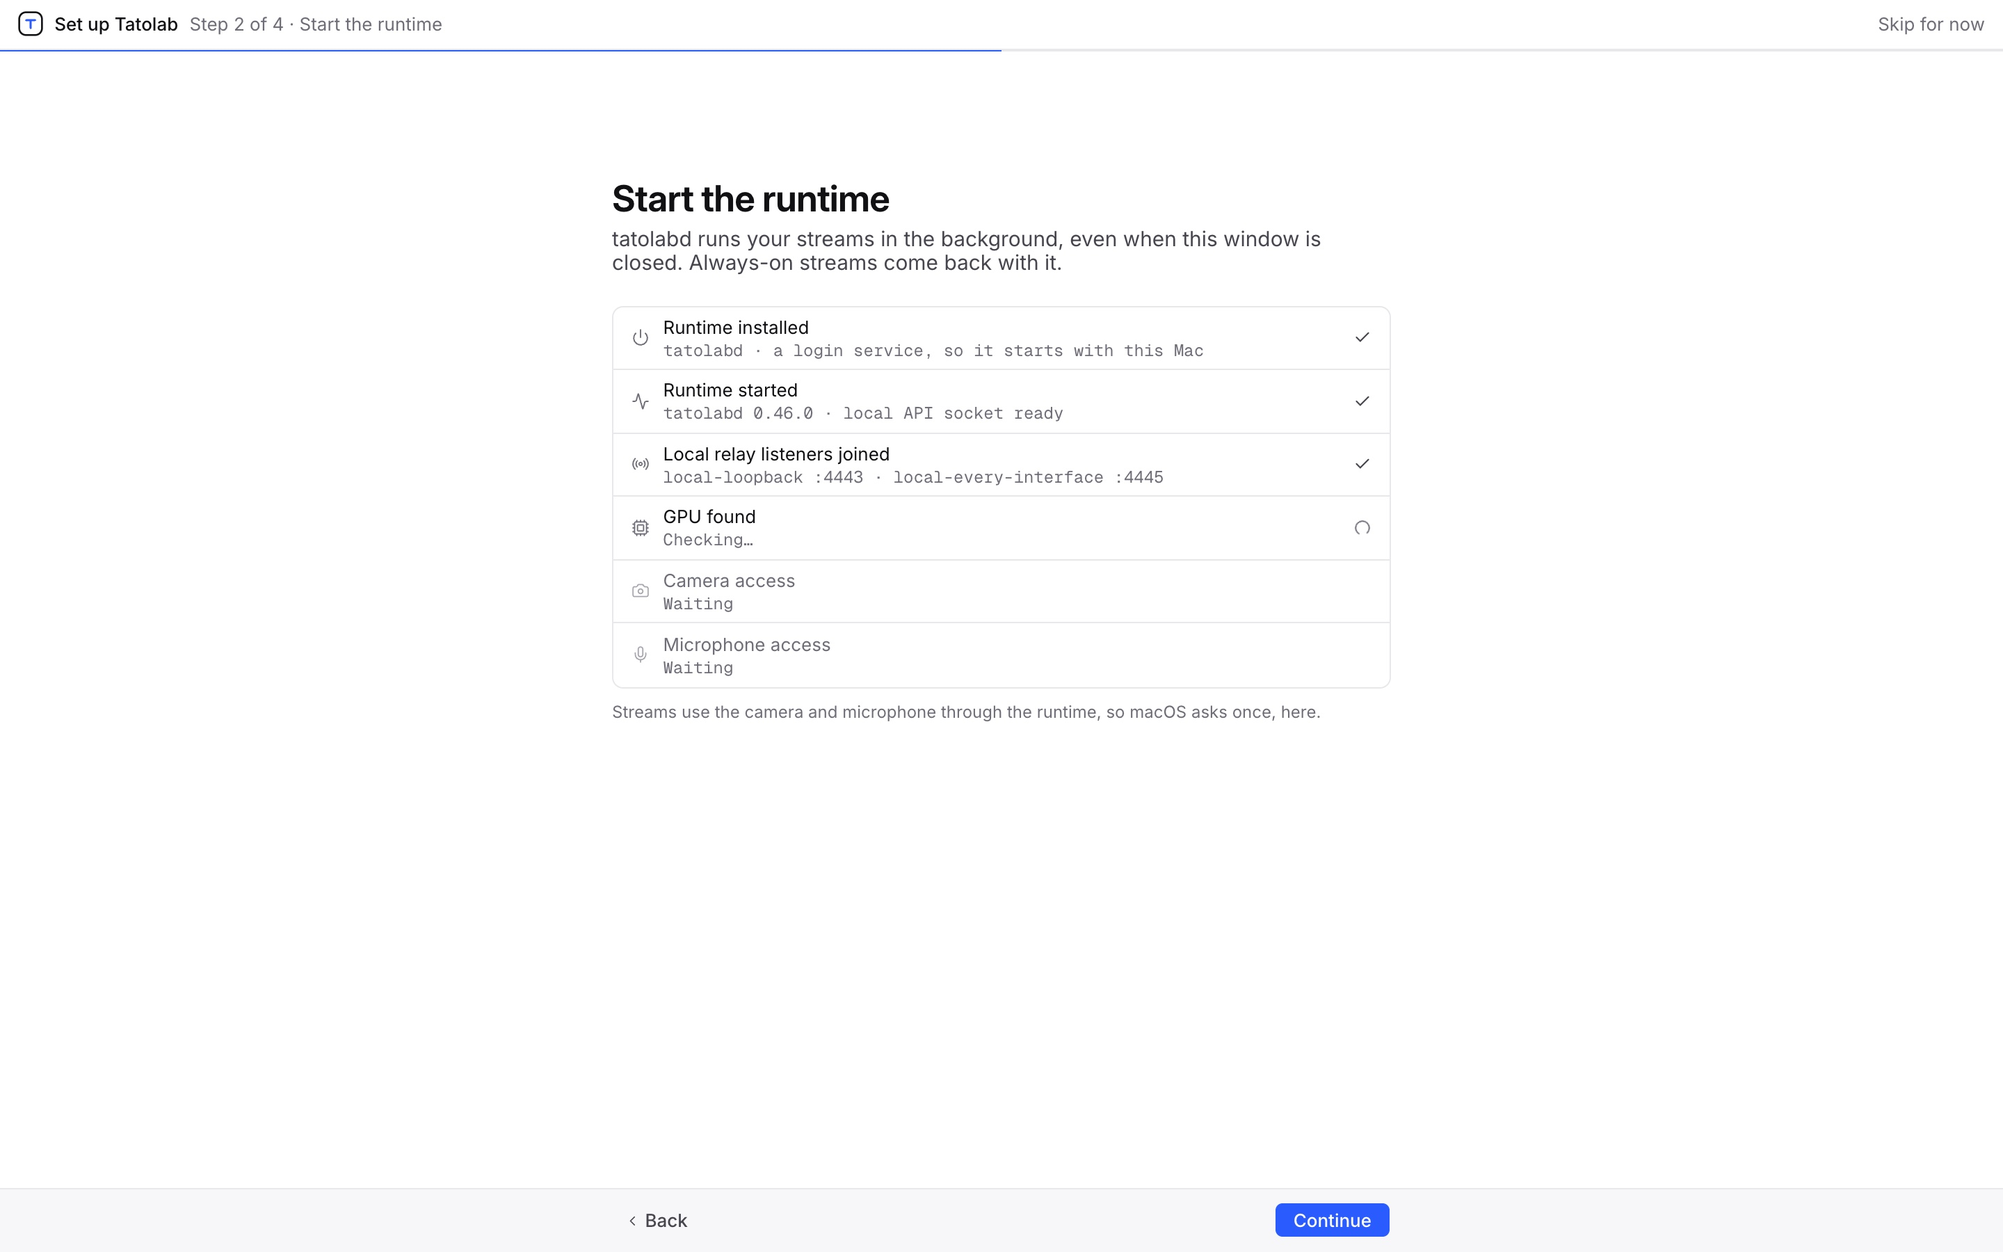
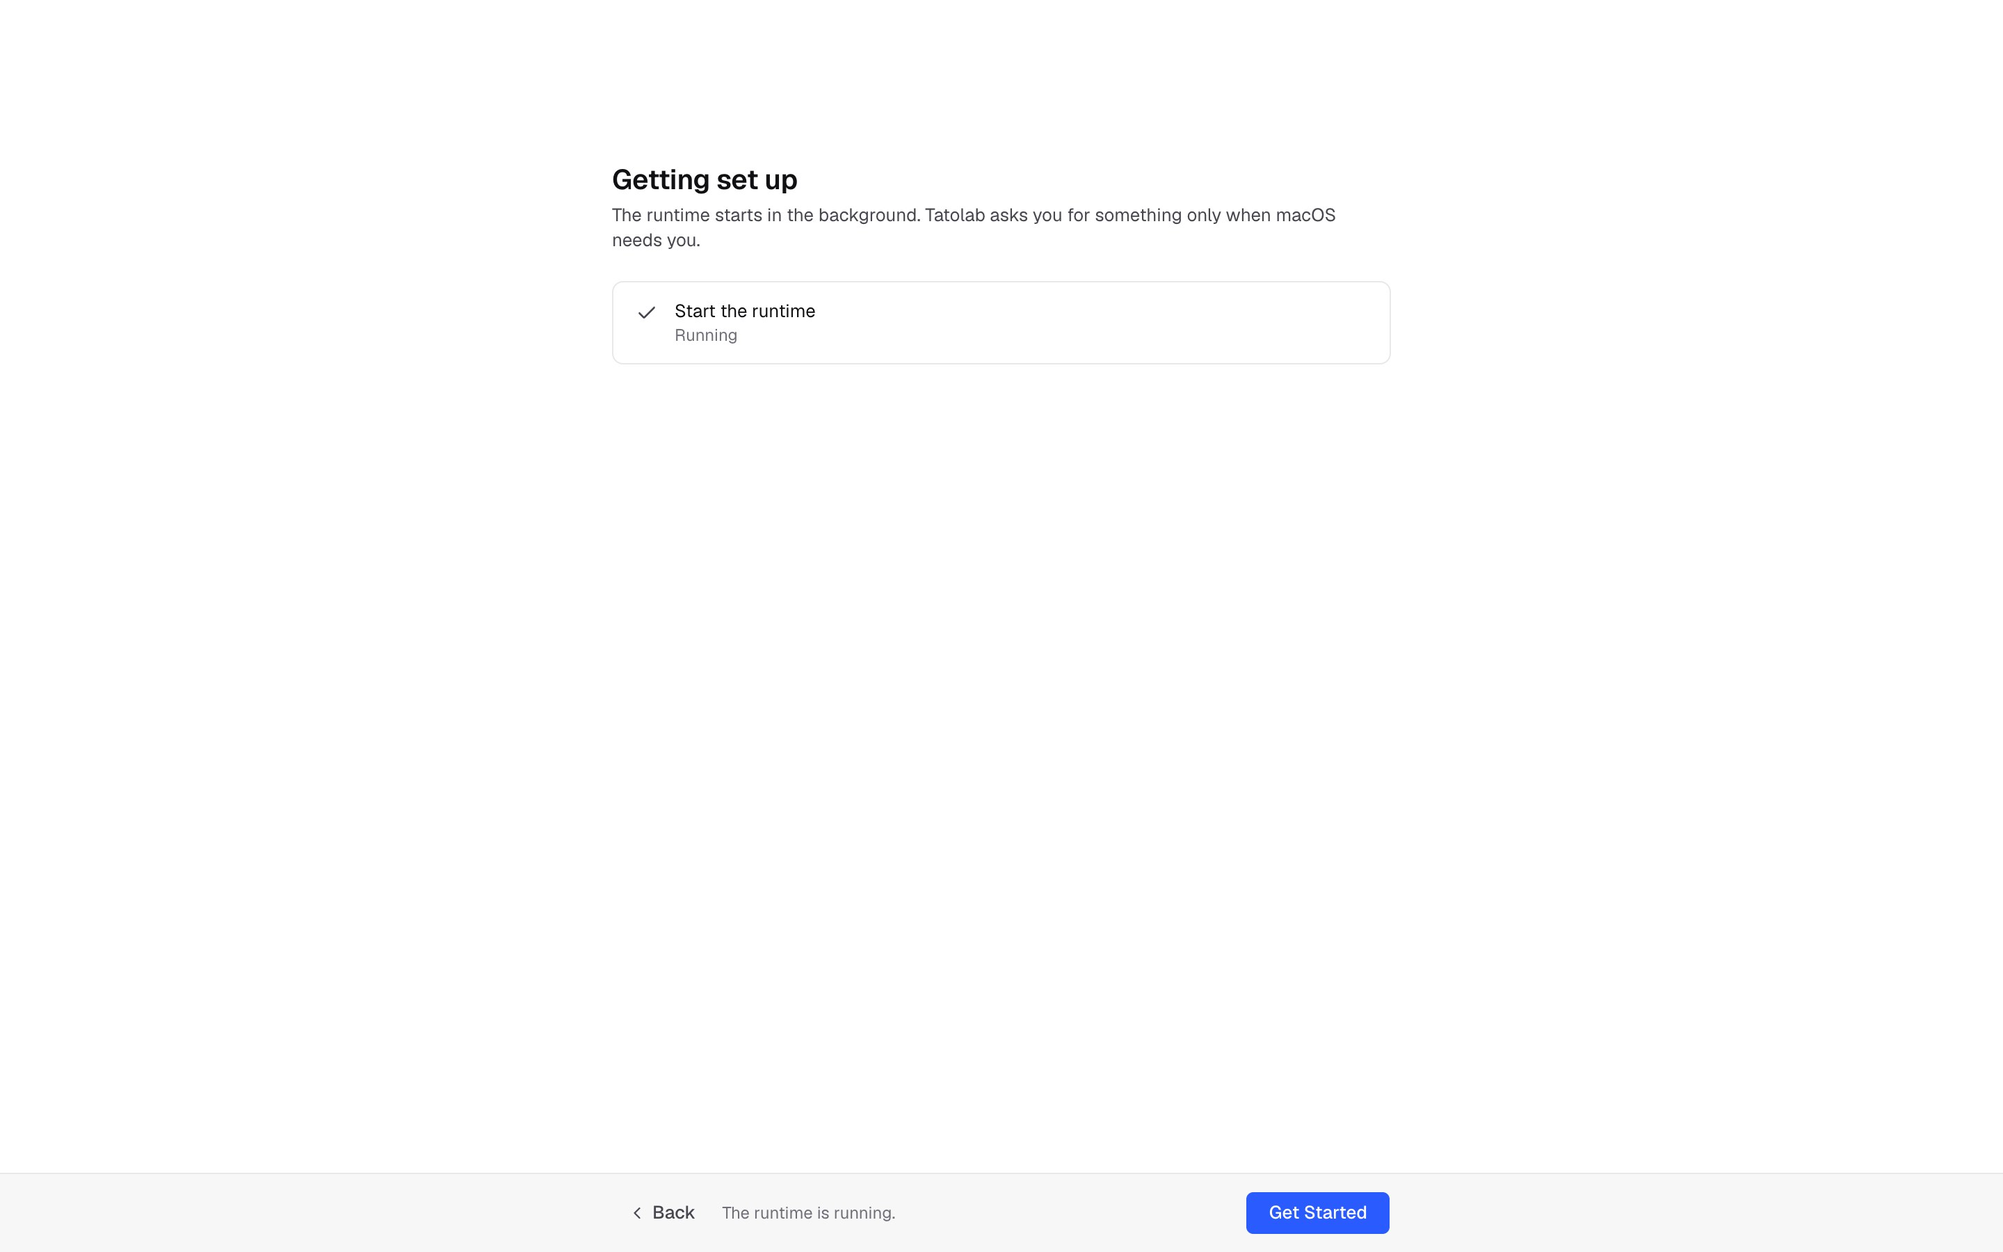
docs(design): first run redrawn as Welcome and Getting set up, and the command line in ~/.local/bin
setup-1…4 are now Welcome, Getting set up, Needs your approval and Blocked by macOS, rendered from
the prototype's Today setup page. Settings › Command line shows the home-folder link, the PATH line
and the /usr/local/bin option.

diff --git a/docs/design/src/today/pages/TodaySetup.tsx b/docs/design/src/today/pages/TodaySetup.tsx
@@ -1,241 +1,152 @@
 // Copyright (c) 2025 Jonathan Fontanez
 // SPDX-License-Identifier: LicenseRef-Tatolab-Proprietary
 
-import { Activity, Camera, Check, ChevronLeft, ChevronRight, Cpu, FolderOpen, LoaderCircle, type LucideIcon, Mic, Power, Radio, Sparkles, SquareTerminal } from "lucide-react"
+import { Check, ChevronLeft, Hourglass, LoaderCircle, type LucideIcon, SquareX, TriangleAlert } from "lucide-react"
 import { useEffect, useState } from "react"
-import { Link, useNavigate, useSearchParams } from "react-router-dom"
-import { Mascot, TatolabMark } from "@/components/brand/brand"
-import { CodeBlock, CommandBlock } from "@/components/setup/CommandBlock"
-import { StepHeading } from "@/components/setup/SetupSteps"
-import { Segmented } from "@/components/stream/Segmented"
+import { useNavigate, useSearchParams } from "react-router-dom"
+import { Mascot } from "@/components/brand/brand"
 import { Button } from "@/components/ui/button"
 import { cn } from "@/lib/utils"
-import { thisMachine, todayRelays } from "../data"
 
-const stepNames = ["Welcome", "Start the runtime", "Command line & agents", "First stream"]
-
-function WelcomeStep() {
+function WelcomeScreen() {
   return (
     <div className="flex flex-col items-center text-center">
       <Mascot className="size-[140px]" />
       <h1 className="title-xl mt-5">Welcome to Tatolab</h1>
-      <p className="mt-2 max-w-sm text-[15px] leading-5 text-fg-2">Run live video, audio and AI streams on this Mac. You write a stream in Python; the runtime runs it.</p>
+      <p className="mt-2 max-w-sm text-[15px] leading-5 text-fg-2">
+        Tatolab runs your live video, audio and AI streams in a runtime in the background. This window is where you see and control it.
+      </p>
     </div>
   )
 }
 
-type CheckState = "waiting" | "checking" | "done" | "needs-allow"
+type StepProgress = "waiting" | "in_progress" | "done" | "needs_you" | "failed"
 
-interface RuntimeCheck {
-  id: string
-  icon: LucideIcon
-  label: string
-  detail: string
-  allow?: boolean
+const progressIcons: Record<StepProgress, { icon: LucideIcon; className: string }> = {
+  waiting: { icon: Hourglass, className: "text-fg-3" },
+  in_progress: { icon: LoaderCircle, className: "animate-spin text-fg-3" },
+  done: { icon: Check, className: "text-fg-2" },
+  needs_you: { icon: TriangleAlert, className: "text-warn" },
+  failed: { icon: SquareX, className: "text-danger" },
 }
 
-const localRelays = todayRelays.filter((r) => r.adapter === "local")
+interface SetupStep {
+  title: string
+  progressWords: string
+  explanation?: string
+  progress: StepProgress
+  action?: string
+}
 
-const runtimeChecks: RuntimeCheck[] = [
-  { id: "service", icon: Power, label: "Runtime installed", detail: "tatolabd · a login service, so it starts with this Mac" },
-  { id: "runtime", icon: Activity, label: "Runtime started", detail: `tatolabd ${thisMachine.runtimeVersion} · local API socket ready` },
-  {
-    id: "relay",
-    icon: Radio,
-    label: "Local relay listeners joined",
-    detail: localRelays.map((r) => `${r.relayId} :${r.settings.port}`).join(" · "),
-  },
-  { id: "gpu", icon: Cpu, label: "GPU found", detail: "Apple M4 Max · 40-core GPU · Metal" },
-  { id: "camera", icon: Camera, label: "Camera access", detail: "FaceTime HD Camera, Studio Display Camera", allow: true },
-  { id: "mic", icon: Mic, label: "Microphone access", detail: "Shure MV7+, MacBook Pro Microphone", allow: true },
-]
+/** What macOS is doing with the runtime: starting it, done, waiting for the person's approval, or blocked. */
+type RuntimeOnFirstRun = "starting" | "done" | "approval" | "blocked"
 
-function RuntimeStep() {
-  const [tick, setTick] = useState(0)
-  const [allowed, setAllowed] = useState<Set<string>>(new Set())
-  useEffect(() => {
-    const id = window.setInterval(() => setTick((t) => (t >= runtimeChecks.length * 2 ? t : t + 1)), 300)
-    return () => window.clearInterval(id)
-  }, [])
-  const stateOf = (row: RuntimeCheck, i: number): CheckState => {
-    if (tick < i * 2) return "waiting"
-    if (tick < i * 2 + 2) return "checking"
-    if (row.allow && !allowed.has(row.id)) return "needs-allow"
-    return "done"
+function stepsFor(runtime: RuntimeOnFirstRun): SetupStep[] {
+  switch (runtime) {
+    case "starting":
+      return [{ title: "Start the runtime", progressWords: "Starting…", progress: "in_progress" }]
+    case "done":
+      return [{ title: "Start the runtime", progressWords: "Running", progress: "done" }]
+    case "approval":
+      return [
+        { title: "Start the runtime", progressWords: "Starts once you approve it", progress: "waiting" },
+        {
+          title: "Needs your approval",
+          progressWords: "Waiting for you",
+          explanation: "macOS asks before the runtime runs in the background. In Login Items, turn on Tatolab under Allow in the Background.",
+          progress: "needs_you",
+          action: "Open Login Items…",
+        },
+      ]
+    case "blocked":
+      return [
+        { title: "Start the runtime", progressWords: "Starts once macOS lets it", progress: "waiting" },
+        {
+          title: "Blocked by macOS",
+          progressWords: "Stopped",
+          explanation: "macOS stopped the runtime from starting and won't try again by itself. Try Again hands it to macOS afresh.",
+          progress: "failed",
+          action: "Try Again",
+        },
+      ]
   }
+}
+
+function GettingSetUpScreen({ runtime }: { runtime: RuntimeOnFirstRun }) {
   return (
     <>
-      <StepHeading title="Start the runtime" lead="tatolabd runs your streams in the background, even when this window is closed. Always-on streams come back with it." />
-      <div className="overflow-hidden rounded-lg border">
-        {runtimeChecks.map((row, i) => {
-          const state = stateOf(row, i)
+      <h1 className="title-lg">Getting set up</h1>
+      <p className="mt-1 mb-5 text-fg-2">The runtime starts in the background. Tatolab asks you for something only when macOS needs you.</p>
+      <ol className="flex flex-col divide-y rounded-lg border">
+        {stepsFor(runtime).map((step) => {
+          const { icon: ProgressIcon, className } = progressIcons[step.progress]
           return (
-            <div key={row.id} className="flex h-14 items-center gap-3 border-b px-4 last:border-b-0">
-              <row.icon className={cn("size-4 shrink-0", state === "waiting" ? "text-fg-4" : "text-fg-3")} strokeWidth={1.75} />
+            <li key={step.title} className="flex items-start gap-3 px-4 py-3">
+              <ProgressIcon className={cn("mt-0.5 size-4 shrink-0", className)} strokeWidth={step.progress === "done" ? 2 : 1.75} />
               <div className="min-w-0 flex-1">
-                <div className={state === "waiting" ? "text-fg-3" : "text-fg"}>{row.label}</div>
-                <div className="truncate font-mono text-xs text-fg-3">{state === "done" || state === "needs-allow" ? row.detail : state === "checking" ? "Checking…" : "Waiting"}</div>
+                <div className={step.progress === "waiting" ? "text-fg-3" : "text-fg"}>{step.title}</div>
+                <div className={cn("text-xs", step.progress === "needs_you" ? "text-warn-text" : step.progress === "failed" ? "text-danger-text" : "text-fg-3")}>
+                  {step.progressWords}
+                </div>
+                {step.explanation && <p className="mt-1 max-w-[52ch] text-xs text-fg-2">{step.explanation}</p>}
               </div>
-              {state === "checking" && <LoaderCircle className="size-4 animate-spin text-fg-3" strokeWidth={1.75} />}
-              {state === "done" && <Check className="size-4 text-fg-2" strokeWidth={2} />}
-              {state === "needs-allow" && (
-                <Button size="sm" className="h-7 px-3 text-[13px]" onClick={() => setAllowed((s) => new Set(s).add(row.id))}>
-                  Allow
+              {step.action && (
+                <Button size="sm" variant={step.progress === "needs_you" ? "default" : "outline"} className="h-7 px-3 text-[13px]">
+                  {step.action}
                 </Button>
               )}
-            </div>
+            </li>
           )
         })}
-      </div>
-      <p className="mt-3 text-xs text-fg-3">Streams use the camera and microphone through the runtime, so macOS asks once, here.</p>
+      </ol>
     </>
   )
 }
 
-const mcpConfig = `{
-  "mcpServers": {
-    "tatolab": {
-      "command": "tatolab",
-      "args": ["mcp"]
-    }
-  }
-}`
-
-function CommandLineStep() {
-  const [agent, setAgent] = useState<"claude" | "cursor">("claude")
-  return (
-    <>
-      <StepHeading title="Command line & agents" lead="Everything this app does is also a tatolab command, for your terminal, your scripts and your coding agent." />
-      <div className="overflow-hidden rounded-lg border">
-        <div className="flex h-14 items-center gap-3 px-4">
-          <SquareTerminal className="size-4 shrink-0 text-fg-3" strokeWidth={1.75} />
-          <div className="min-w-0 flex-1">
-            <div className="text-fg">
-              <span className="font-mono text-[13px]">tatolab</span> is installed
-            </div>
-            <div className="truncate font-mono text-xs text-fg-3">/opt/homebrew/bin/tatolab · {thisMachine.runtimeVersion}</div>
-          </div>
-          <Check className="size-4 text-fg-2" strokeWidth={2} />
-        </div>
-      </div>
-      <p className="mt-2 text-xs text-fg-3">
-        It came with the app: <span className="font-mono text-fg-2">brew install --cask tatolab/tap/tatolab</span> includes it. Try:
-      </p>
-      <CommandBlock command="tatolab streams" className="mt-2" />
-
-      <div className="mt-8">
-        <div className="flex items-end gap-3">
-          <div className="min-w-0 flex-1">
-            <h2 className="font-medium text-fg">Connect a coding agent</h2>
-            <p className="text-xs text-fg-3">
-              <span className="font-mono text-fg-2">tatolab mcp</span> serves this runtime to your agent over stdio: streams, graphs and logs.
-            </p>
-          </div>
-          <Segmented
-            value={agent}
-            onChange={setAgent}
-            options={[
-              { id: "claude", label: "Claude Code" },
-              { id: "cursor", label: "Cursor" },
-            ]}
-          />
-        </div>
-        <CodeBlock code={mcpConfig} language="json" caption={agent === "claude" ? ".mcp.json" : ".cursor/mcp.json"} className="mt-3" />
-      </div>
-    </>
-  )
-}
-
-const firstStreamChoices: { id: "sample" | "folder"; icon: LucideIcon; title: string; body: string }[] = [
-  { id: "sample", icon: Sparkles, title: "Create the sample stream", body: "A test pattern you can edit, in ~/streams/hello. Runs Always on." },
-  { id: "folder", icon: FolderOpen, title: "Open a project folder", body: "A folder with a stream.py and its own .venv." },
-]
-
-function FirstStreamStep({ choice, onChoice }: { choice: "sample" | "folder"; onChoice: (id: "sample" | "folder") => void }) {
-  return (
-    <>
-      <StepHeading title="Your first stream" lead="A stream is a Python project. Its stream.py wires nodes together; the runtime compiles it and runs it." />
-      <div className="overflow-hidden rounded-lg border">
-        {firstStreamChoices.map((s) => {
-          const active = choice === s.id
-          return (
-            <button
-              key={s.id}
-              onClick={() => onChoice(s.id)}
-              className={cn("flex h-16 w-full items-center gap-3.5 border-b px-4 text-left transition-colors last:border-b-0 hover:bg-hover", active && "bg-selected hover:bg-selected")}
-            >
-              <span className={cn("grid size-9 shrink-0 place-items-center rounded-md border bg-raised", active && "border-brand")}>
-                <s.icon className={cn("size-4", active ? "text-brand-text" : "text-fg-2")} strokeWidth={1.75} />
-              </span>
-              <span className="min-w-0 flex-1">
-                <span className="block text-fg">{s.title}</span>
-                <span className="block truncate text-xs text-fg-3">{s.body}</span>
-              </span>
-              {active ? <Check className="size-4 text-brand-text" strokeWidth={2} /> : <ChevronRight className="size-4 text-fg-4" strokeWidth={1.75} />}
-            </button>
-          )
-        })}
-      </div>
-      {choice === "sample" && (
-        <>
-          <p className="mt-4 mb-2 text-xs text-fg-3">The app runs this, then keeps the stream running Always on:</p>
-          <CommandBlock command="tatolab new ~/streams/hello" />
-        </>
-      )}
-    </>
-  )
-}
+const runtimesOnFirstRun: RuntimeOnFirstRun[] = ["starting", "done", "approval", "blocked"]
 
 export default function TodaySetup() {
   const [params, setParams] = useSearchParams()
   const navigate = useNavigate()
-  const [choice, setChoice] = useState<"sample" | "folder">("sample")
-  const total = stepNames.length
-  const step = Math.min(total, Math.max(1, Number(params.get("step")) || 1))
-  const go = (n: number) => setParams({ step: String(n) })
-  const last = step === total
-  const finish = () => navigate(choice === "sample" ? "/new?source=new&step=compiling" : "/new")
+  const step = params.get("step") === "2" ? 2 : 1
+  const runtimeInTheQuery = runtimesOnFirstRun.find((runtime) => runtime === params.get("runtime"))
+  const [runtime, setRuntime] = useState<RuntimeOnFirstRun>(runtimeInTheQuery ?? "starting")
+  useEffect(() => {
+    if (step !== 2 || runtimeInTheQuery !== undefined || runtime !== "starting") return
+    const started = window.setTimeout(() => setRuntime("done"), 2400)
+    return () => window.clearTimeout(started)
+  }, [step, runtimeInTheQuery, runtime])
 
   return (
     <div className="flex h-screen flex-col bg-window text-fg">
-      <header className="no-drag flex h-11 shrink-0 items-center gap-2.5 border-b px-4">
-        <TatolabMark className="text-fg" />
-        <span className="font-medium">Set up Tatolab</span>
-        {step > 1 && (
-          <span className="text-fg-3">
-            Step {step} of {total} · {stepNames[step - 1]}
-          </span>
-        )}
-        <Link to="/" className="ml-auto text-fg-3 hover:text-fg">
-          Skip for now
-        </Link>
-      </header>
-      <div className="h-0.5 shrink-0 bg-line">
-        <div className="h-full bg-brand transition-[width] duration-300" style={{ width: `${(step / total) * 100}%` }} />
-      </div>
-
+      <div className="h-11 shrink-0" />
       <main className="scrollbar-thin flex min-h-0 flex-1 overflow-y-auto">
-        <div className={step === 1 ? "m-auto w-[560px] py-10" : "mx-auto w-[560px] pt-[10vh] pb-10"}>
-          {step === 1 && <WelcomeStep />}
-          {step === 2 && <RuntimeStep />}
-          {step === 3 && <CommandLineStep />}
-          {step === 4 && <FirstStreamStep choice={choice} onChoice={setChoice} />}
+        <div className={step === 1 ? "m-auto w-[560px] py-10" : "mx-auto w-[560px] pt-[8vh] pb-10"}>
+          {step === 1 ? <WelcomeScreen /> : <GettingSetUpScreen runtime={runtime} />}
         </div>
       </main>
-
       <footer className="shrink-0 border-t bg-chrome">
         <div className="mx-auto flex h-14 w-[560px] items-center gap-2">
-          {step > 1 ? (
-            <Button variant="ghost" size="sm" className="h-8 gap-1 px-2.5 text-[13px] text-fg-2" onClick={() => go(step - 1)}>
-              <ChevronLeft className="size-3.5" /> Back
-            </Button>
-          ) : (
+          {step === 1 ? (
             <span className="text-fg-3">Takes about a minute.</span>
+          ) : (
+            <>
+              <Button variant="ghost" size="sm" className="h-8 gap-1 px-2.5 text-[13px] text-fg-2" onClick={() => setParams({ step: "1" })}>
+                <ChevronLeft className="size-3.5" /> Back
+              </Button>
+              <span className="text-xs text-fg-3">{runtime === "done" ? "The runtime is running." : "Get Started opens once the runtime answers."}</span>
+            </>
           )}
-          <div className="ml-auto flex items-center gap-2">
-            <Button size="sm" className="h-8 px-4 text-[13px]" onClick={() => (last ? finish() : go(step + 1))}>
-              {step === 1 ? "Get started" : last ? (choice === "sample" ? "Create and run" : "Choose folder") : "Continue"}
-            </Button>
+          <div className="ml-auto">
+            {step === 1 ? (
+              <Button size="sm" className="h-8 px-4 text-[13px]" onClick={() => setParams({ step: "2" })}>
+                Continue
+              </Button>
+            ) : (
+              <Button size="sm" className="h-8 px-4 text-[13px]" disabled={runtime !== "done"} onClick={() => navigate("/")}>
+                Get Started
+              </Button>
+            )}
           </div>
         </div>
       </footer>

diff --git a/docs/design/src/today/pages/TodaySettings.tsx b/docs/design/src/today/pages/TodaySettings.tsx
@@ -110,11 +110,27 @@ function CommandLineSection() {
   return (
     <>
       <SettingsGroup>
-        <SettingsRow label="tatolab" description={<Mono>/opt/homebrew/bin/tatolab</Mono>}>
+        <SettingsRow
+          label="tatolab"
+          description={
+            <>
+              <Mono>~/.local/bin/tatolab</Mono> · Linked to the copy inside Tatolab.app. It works in any terminal with ~/.local/bin on its PATH.
+            </>
+          }
+        >
           <Mono>{thisMachine.runtimeVersion}</Mono>
         </SettingsRow>
-        <SettingsRow label="Installed with the app" description="The cask installs the app, the runtime and the command line together.">
-          <Mono>brew install --cask tatolab/tap/tatolab</Mono>
+        <div className="flex flex-col gap-1.5 px-4 py-3">
+          <p className="text-xs text-fg-3">If a terminal can't find it, add this line to ~/.zprofile and open a new terminal:</p>
+          <CommandBlock command={'export PATH="$HOME/.local/bin:$PATH"'} />
+        </div>
+        <SettingsRow
+          label="Link in /usr/local/bin"
+          description="Works in every terminal, with no change to your PATH. macOS asks for your password, and its dialog says “osascript wants to make changes.”"
+        >
+          <Button variant="outline" size="sm" className={small}>
+            Link in /usr/local/bin…
+          </Button>
         </SettingsRow>
       </SettingsGroup>
       <SettingsGroup title="Coding agents" description="The MCP server: it serves this runtime to a coding agent over stdio.">
